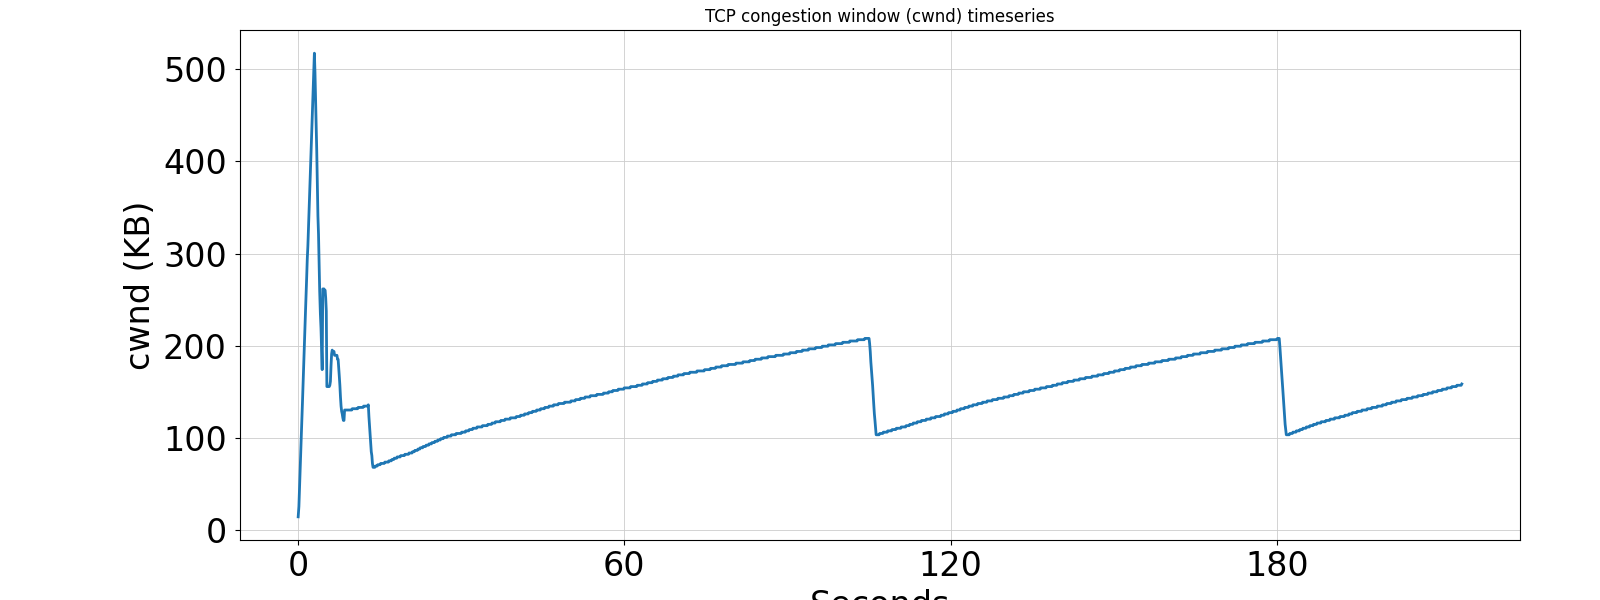
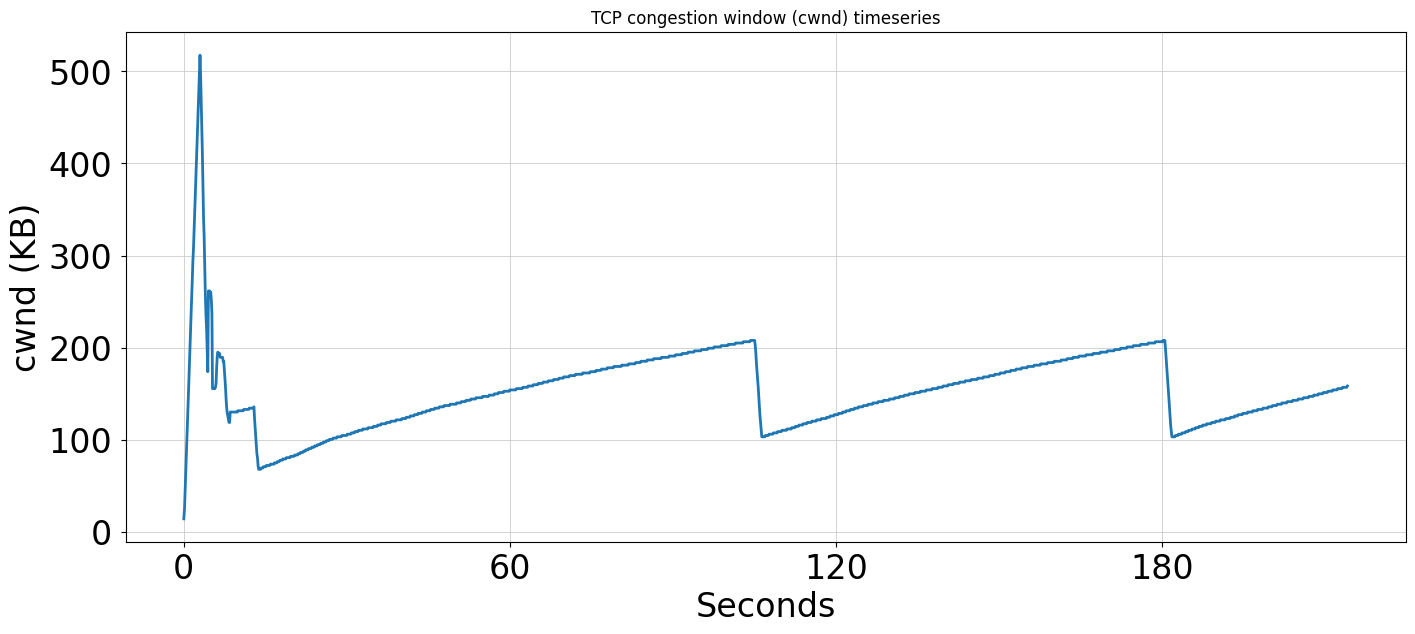
Fix clipped axis labels in all plots
- Add bbox_inches='tight' to every plt.savefig() call so the saved image
  expands to include the full axis labels (plot_defaults.py sets a tight
  bottom margin that clips text at large font sizes)
- Add plt.xlabel("Seconds") to plot_ping.py, which was missing entirely

diff --git a/plot_ping.py b/plot_ping.py
@@ -56,9 +56,10 @@ for i, f in enumerate(args.files):
     ax.xaxis.set_major_locator(MaxNLocator(4))
 
 plt.ylabel("RTT (ms)")
+plt.xlabel("Seconds")
 plt.grid(True)
 
 if args.out:
-    plt.savefig(args.out)
+    plt.savefig(args.out, bbox_inches='tight')
 else:
     plt.show()

diff --git a/plot_tcpprobe.py b/plot_tcpprobe.py
@@ -58,6 +58,6 @@ ax.xaxis.set_major_locator(MaxNLocator(4))
 
 if args.out:
     print('saving to', args.out)
-    plt.savefig(args.out)
+    plt.savefig(args.out, bbox_inches='tight')
 else:
     plt.show()

diff --git a/plot_queue.py b/plot_queue.py
@@ -71,6 +71,6 @@ plt.xlabel("Seconds")
 
 if args.out:
     print('saving to', args.out)
-    plt.savefig(args.out)
+    plt.savefig(args.out, bbox_inches='tight')
 else:
     plt.show()
